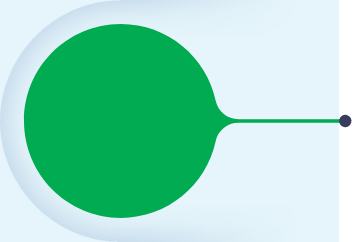
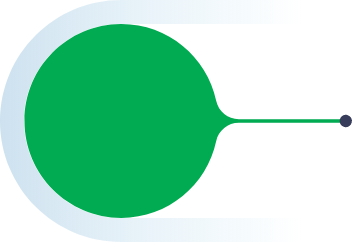
qii

diff --git a/src/pages/Fundamentals_of_QII.jsx b/src/pages/Fundamentals_of_QII.jsx
@@ -80,7 +80,9 @@ export default function Fundamentals_of_QII() {
     <div className="fundamentals_of_qii">
       <section className="color-dark">
         <div className="fundamentals_of_qii-header">
-          <div className="fundamentals_of_qii-header-bg"></div>
+          <div className="fundamentals_of_qii-header-bg">
+            {/* <img src="images/fundamentals_of_qii/QII2_Landing_main.png" alt="" /> */}
+          </div>
           <div className="fundamentals_of_qii-header-title">
             <h1>Quality Infrastructure Investment</h1>
             <p>Transforming how the world delivers infrastructure</p>
@@ -392,7 +394,7 @@ export default function Fundamentals_of_QII() {
           Each of the six QII Principles applies at every stage.
         </p>
         <div className="qii-life-cycle-container-section">
-          <div className="qii-life-cycle-container">
+          <div className="qii-life-cycle-container qii-life-cycle-container-1">
             <div className="qii-life-cycle-stage-image qii-life-cycle-stage-img-1">
               <img src="images/fundamentals_of_qii/11/1.png" alt="" />
               <div className="qii-life-cycle-stage-1-title">Planning</div>
@@ -402,7 +404,7 @@ export default function Fundamentals_of_QII() {
               community needs from the start?
             </div>
           </div>
-          <div className="qii-life-cycle-container">
+          <div className="qii-life-cycle-container qii-life-cycle-container-2">
             <div className="qii-life-cycle-stage-image qii-life-cycle-stage-img-2">
               <img src="images/fundamentals_of_qii/11/2.png" alt="" />
               <div className="qii-life-cycle-stage-1-title">Design</div>
@@ -412,7 +414,7 @@ export default function Fundamentals_of_QII() {
               efficiency?
             </div>
           </div>
-          <div className="qii-life-cycle-container">
+          <div className="qii-life-cycle-container qii-life-cycle-container-3">
             <div className="qii-life-cycle-stage-image qii-life-cycle-stage-img-3">
               <img src="images/fundamentals_of_qii/11/3.png" alt="" />
               <div className="qii-life-cycle-stage-1-title">Construction</div>
@@ -422,7 +424,7 @@ export default function Fundamentals_of_QII() {
               building?
             </div>
           </div>
-          <div className="qii-life-cycle-container">
+          <div className="qii-life-cycle-container qii-life-cycle-container-4">
             <div className="qii-life-cycle-stage-image qii-life-cycle-stage-img-4">
               <img src="images/fundamentals_of_qii/11/4.png" alt="" />
               <div className="qii-life-cycle-stage-1-title">Operation</div>
@@ -432,7 +434,7 @@ export default function Fundamentals_of_QII() {
               risks?
             </div>
           </div>
-          <div className="qii-life-cycle-container">
+          <div className="qii-life-cycle-container qii-life-cycle-container-5">
             <div className="qii-life-cycle-stage-image qii-life-cycle-stage-img-5">
               <img src="images/fundamentals_of_qii/11/5.png" alt="" />
               <div className="qii-life-cycle-stage-1-title qii-life-cycle-stage-1-title-1">

diff --git a/src/pages/Fundamentals_of_QII.css b/src/pages/Fundamentals_of_QII.css
@@ -4,8 +4,9 @@
 }
 
 .fundamentals_of_qii-header .fundamentals_of_qii-header-bg {
-  background-image: url("images/fundamentals_of_qii/QII2_Landing_main.png");
+  background-image: url("/images/fundamentals_of_qii/QII2_Landing_main.png");
   object-fit: cover;
+  background-repeat: no-repeat;
   width: 100%;
   height: 500px;
 }
@@ -136,7 +137,7 @@
   display: flex;
   gap: 1rem;
   background-color: #002244;
-  background-image: url("images/fundamentals_of_qii/shutterstock_2492762449.png");
+  background-image: url("/images/fundamentals_of_qii/shutterstock_2492762449.png");
   background-repeat: no-repeat;
   background-position: 100% 0;
   background-size: 50% 100%;
@@ -302,13 +303,18 @@
 }
 
 .qii-life-cycle-container-section {
+  position: relative;
   display: flex;
   justify-content: center;
-  align-items: center;
-  gap: 0rem;
+  align-items: flex-start;
+  gap: 1rem;
   width: 100%;
-  padding: 2rem;
-  margin: 1rem auto;
+  padding: 10rem 8rem;
+  margin: 4rem auto;
+  /* display:flex;
+  justify-content:center;
+  align-items:flex-start;
+  flex-wrap:nowrap; */
 }
 
 .qii-life-cycle-container {
@@ -316,6 +322,48 @@
   display: flex;
   flex-direction: column;
   gap: 1rem;
+  /* width:20%; */
+  text-align: center;
+}
+
+.qii-life-cycle-container-1 {
+  position: absolute;
+  left: 24.5%;
+  top: 53%;
+  transform: translate(-50%, -50%);
+  z-index: 55555;
+}
+
+.qii-life-cycle-container-2 {
+  position: absolute;
+  left: 39.5%;
+  top: 53.2%;
+  transform: translate(-50%, -50%);
+  z-index: 4444;
+}
+
+.qii-life-cycle-container-3 {
+  position: absolute;
+  left: 54.5%;
+  top: 50%;
+  transform: translate(-50%, -50%);
+  z-index: 333;
+}
+
+.qii-life-cycle-container-4 {
+  position: absolute;
+  left: 69.6%;
+  top: 50%;
+  transform: translate(-50%, -50%);
+  z-index: 22;
+}
+
+.qii-life-cycle-container-5 {
+  position: absolute;
+  left: 84.6%;
+  top: 53%;
+  transform: translate(-50%, -50%);
+  z-index: 5;
 }
 
 .qii-life-cycle-stage-image {
@@ -324,11 +372,11 @@
 }
 
 .qii-life-cycle-stage-img-1 {
-  z-index: 55555;
+  z-index: 5555555;
 }
 
 .qii-life-cycle-stage-img-2 {
-  z-index: 4444;
+  z-index: 444444444444;
 }
 
 .qii-life-cycle-stage-img-3 {
@@ -344,8 +392,12 @@
   z-index: 5;
 }
 
+/* .qii-life-cycle-stage-image:not(:first-child){
+  margin-left:-10rem;
+} */
+
 .qii-life-cycle-stage-1-desc {
-  width: 83%;
+  width: 76%;
   text-align: center;
 }
 
@@ -685,6 +737,11 @@
     gap: 1rem;
     margin: 0 3rem;
   }
+
+  .qii-generation-container-mobile:not(:first-child) {
+    margin-top: 4rem;
+  }
+
   .qii-generation-description-mobile,
   .qii-generation-image-mobile,
   .qii-generation-description-mobile {

diff --git a/src/components/Footer.jsx b/src/components/Footer.jsx
@@ -34,7 +34,7 @@ const Footer = () => {
             <h4>The six Principles</h4>
             <ul>
               <li>
-                <a href="#/qii1" className="disable-link">
+                <a href="#/qii1">
                   QII.1 Maximizing Positive Impact of Infrastructure
                 </a>
               </li>
@@ -56,13 +56,13 @@ const Footer = () => {
                 </a>
               </li>
               <li>
-                <a href="#/qii5" className="disable-link">
+                <a href="#/qii5">
                   QII.5 Integrating Social Considerations in Infrastructure
                   Investment
                 </a>
               </li>
               <li>
-                <a href="#/qii6" className="disable-link">
+                <a href="#/qii6">
                   QII.6 Strengthening Infrastructure Governance
                 </a>
               </li>
@@ -73,19 +73,32 @@ const Footer = () => {
             <h4>Resources</h4>
             <ul>
               <li>
-                <a href="#/case-studies" className="disable-link">
+                <a
+                  href="#"
+                  onClick={(e) => {
+                    e.preventDefault();
+
+                    const el = document.getElementById("all_principle_page");
+                    el?.scrollIntoView({ behavior: "smooth" });
+
+                    setPreSelectedResources([
+                      {
+                        show: true,
+                        category: "Media Type",
+                        title: "Case Study",
+                        id: 1,
+                      },
+                    ]);
+                  }}
+                >
                   Case Studies
                 </a>
               </li>
               <li>
-                <a href="#" className="disable-link">
-                  Guidance
-                </a>
+                <a href="#">Guidance</a>
               </li>
               <li>
-                <a href="#" className="disable-link">
-                  Tools
-                </a>
+                <a href="#">Tools</a>
               </li>
               <li>
                 <a href="#" className="disable-link">

diff --git a/src/pages/Home.jsx b/src/pages/Home.jsx
@@ -1,4 +1,4 @@
-import React, { useEffect } from "react";
+import React, { useState, useEffect } from "react";
 import { useDispatch, useSelector } from "react-redux";
 import { principles, setBradcrump } from "../slices/appDataSlice";
 import "./Home.css";
@@ -16,6 +16,9 @@ export default function Home() {
     dispatch(setBradcrump({ show: false, dir: [] }));
   }, []);
 
+  
+  const [preSelectedResources, setPreSelectedResources] = useState([]);
+
   useEffect(() => {
     setTimeout(() => {
       if (location.state?.scrollTo) {
@@ -25,6 +28,7 @@ export default function Home() {
       }
     }, 500);
   }, [location]);
+
   return (
     <div className="home color-light">
       <section className="landing_page">
@@ -91,8 +95,10 @@ export default function Home() {
           </button>
         </div>
       </section>
-      <section className="color-light z-2">
-        <ResourceLibrary></ResourceLibrary>
+      <section className="color-light z-2" id="all_principle_page">
+        <ResourceLibrary
+          preSelected={preSelectedResources}
+        ></ResourceLibrary>
       </section>
       <section className="color-dark faq_page" id="faq_page">
         <div className="circle-bg">

diff --git a/src/pages/QIILandingPage.css b/src/pages/QIILandingPage.css
@@ -237,6 +237,10 @@ cursor: pointer;
   scroll-margin-top: 100px;
 }
 
+#all_principle_page {
+  scroll-margin-top: 100px;
+}
+
 @media (min-width: 600px) {
   .sub-pages {
     grid-template-columns: repeat(4, 1fr);
